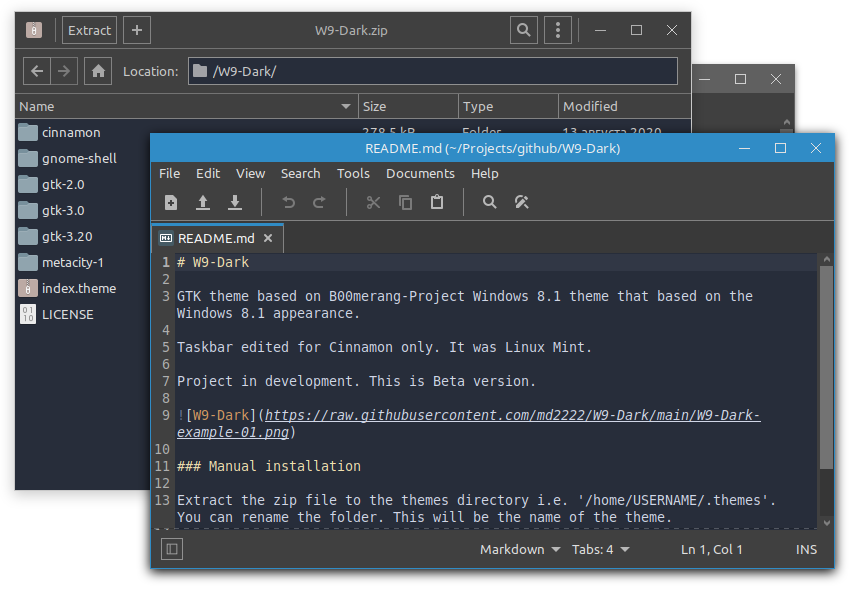
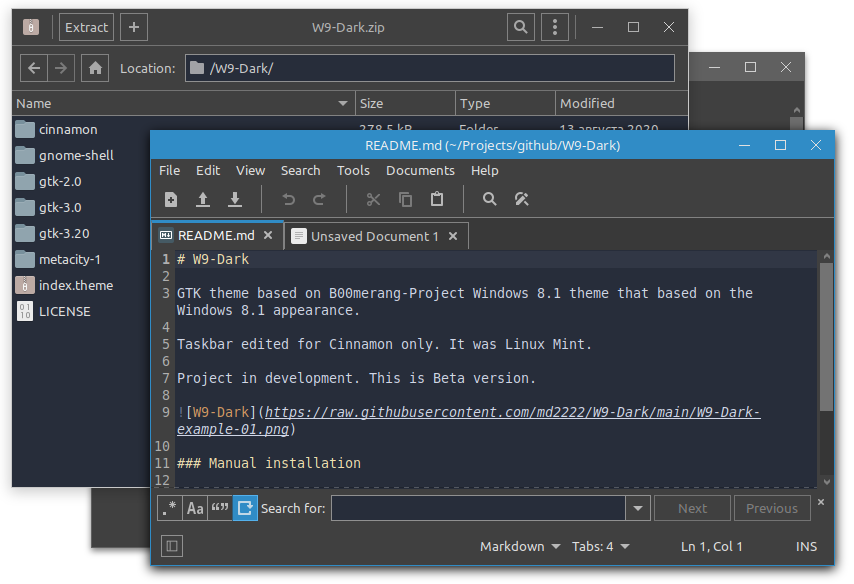
checked tab border

Changed region(s): [[0.0, 0.0, 1.0, 0.9863]]

diff --git a/W9-Dark/gtk-3.20/gtk.css b/W9-Dark/gtk-3.20/gtk.css
@@ -1,5 +1,5 @@
 /*
-0.12 - Fixed checkbox and radio in LibreOffice options
+0.2 - treeview header button
 
 hover color - e2eff7  cfe7ff  caeaff  c5e5f5  308cc6
 red  ff5b5e  ff413b ? ff5b60
@@ -64,7 +64,7 @@ error  d14235  e61b23  ed1c24
     background-color: #308cc6; }
 
 image, image:disabled, label, label:disabled, box, box:disabled {
-  background-color: transparent; }  /* над системными кнопками окна в заголовке-панели, архиватор  */
+  background-color: transparent; }  /* Archive manager, above window system buttons */
 
 label selection {
   background-color: #308cc6;
@@ -1050,7 +1050,8 @@ notebook {
         padding-top: 0;
         padding-bottom: 0; }
   notebook > stack:not(:only-child) {
-    background-color: #404040; }
+    background-color: #404040; 
+    }
   notebook tab {
     padding: 3px 6px;
     border-width: 1px;
@@ -1091,38 +1092,42 @@ notebook {
 		padding: 0;
 	}
   notebook > header {
-    padding-top: 2px;
     background-color: shade(#404040, 0.9); }
     notebook > header:backdrop {
       background-color: shade(#404040, 0.9); }
+      
     notebook > header.top {
-      box-shadow: 0 1px shade(#404040, 0.9); 
+      border-bottom: 1px solid #909090;
+      /*box-shadow: 0 1px shade(#ff4040, 0.9); */
 	}
 
      notebook > header.top > tabs > tab {
-        border-bottom: none;
-        margin-top: 2px;  /* offset relative to checked */
+        border-bottom: transparent;
+        margin-top: 3px;  /* offset relative to checked */
 	 }
         notebook > header.top > tabs > tab:checked {
-            border-top-left-radius: 0px;
-            border-top-right-radius: 0px;
-            margin-top: 0;
+            margin-top: 1px;
             margin-bottom: -1px;
-            padding-bottom: 6px;   /* when one tab ... 3px (default) + 2 (offset) + 1 (this margin) */
+            padding-bottom: 6px;   
             border-top-width: 3px;
             border-style: solid;
             border-top-color: #308cc6;
 	    }
+        notebook > header.top > tabs > tab:checked:hover {
+            /*border-bottom: transparent;*/
+	    }
 
     notebook > header.bottom {
-      padding-top: 0;
-      box-shadow: 0 -1px shade(#404040, 0.9); }
+      padding-bottom: 1px;
+      /*box-shadow: 0 -1px shade(#404040, 0.9); */
+      border-top: 1px solid #909090;
+      }
       notebook > header.bottom > tabs > tab {
-        border-top: none;
-        margin-bottom: 2px; 
+        border-top: transparent;
+        margin-bottom: 3px; 
 	}
         notebook > header.bottom > tabs > tab:checked {
-          margin-bottom: 0;
+          margin-bottom: 1px;
           margin-top: -1px; 
             border-bottom-width: 3px;
             border-style: solid;
@@ -1130,12 +1135,16 @@ notebook {
 		}
         
     notebook > header.right {
-      box-shadow: -1px 0 shade(#404040, 0.9); }
+      padding-right: 1px;
+      /*box-shadow: -1px 0 shade(#404040, 0.9); */
+      border-left: 1px solid #909090;
+      }
       notebook > header.right > tabs > tab {
         border-left: none;
-        margin-right: 2px; }
+        margin-right: 3px; 
+        }
         notebook > header.right > tabs > tab:checked {
-          margin-right: 0;
+          margin-right: 1px;
           margin-left: -1px; 
             border-right-width: 3px;
             border-style: solid;
@@ -1143,12 +1152,15 @@ notebook {
           }
           
     notebook > header.left {
-      box-shadow: 1px 0 shade(#404040, 0.9); }
+      padding-left: 1px;
+      /*box-shadow: 1px 0 shade(#404040, 0.9); */
+      border-right: 1px solid #909090;
+      }
       notebook > header.left > tabs > tab {
         border-right: none;
-        margin-left: 2px; }
+        margin-left: 3px; }
         notebook > header.left > tabs > tab:checked {
-          margin-left: 0;
+          margin-left: 1px;
           margin-right: -1px; 
             border-left-width: 3px;
             border-style: solid;
@@ -1877,7 +1889,7 @@ headerbar, headerbar:not(.titlebar) {
     color: alpha(currentColor, 0.7); 
   }
 /*
-headerbar button - кнопки в заголовке
+headerbar button - buttons in window title
 */
   headerbar button, headerbar:not(.titlebar) button {
     padding: 5px;
@@ -2435,7 +2447,7 @@ treeview {
     border-style: solid;
     border-width: 0 1px 1px 0;
     background-image: none;
-    color: shade(#e0e0e0, 0.8);
+    color: shade(#e0e0e0, 0.9);
     background-color: #404040; 
   }
     treeview header button:last-child {
